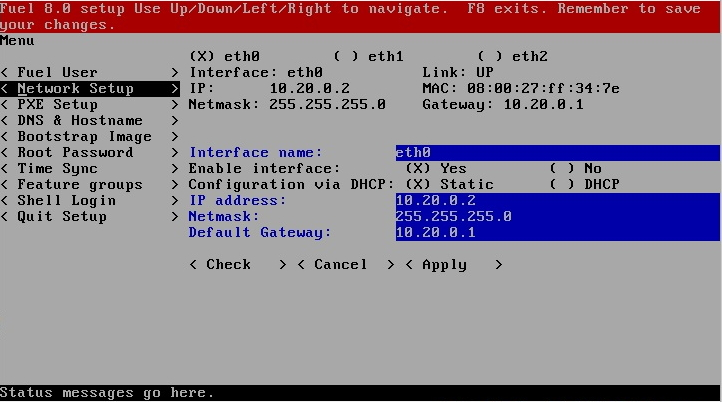
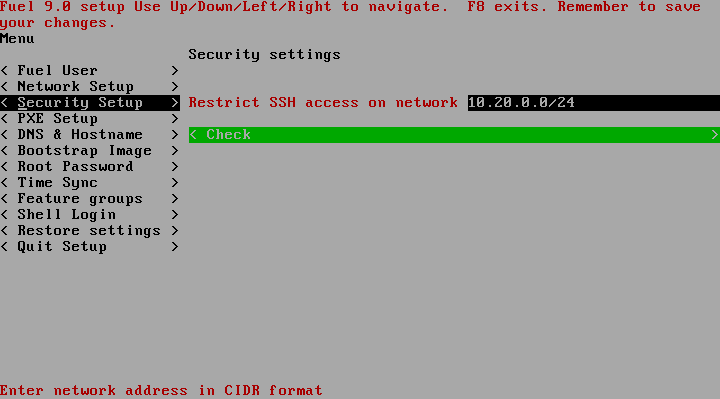
[install guide] Add Security settings to Fuel menu
This patch:

- adds a 'Security Setup' description to the Fuel Setup
  menu description;
- updates the Fuel setup menu from 8.0 to 9.0.

Closes-Bug: #1560360
(cherry picked from commit 68ce16e114ca11a544f2a8c8d4e3e74d2ce11282)

diff --git a/userdocs/fuel-install-guide/install/install_set_up_fuel.rst b/userdocs/fuel-install-guide/install/install_set_up_fuel.rst
@@ -58,13 +58,23 @@ settings and proceed to :ref:`install_install_fuel_master_node`.
    |                                      |                                  |
    |                                      | Modify these settings as needed. |
    +--------------------------------------+----------------------------------+
-   | 4. Configure DNS and hostname.       | Configure the DNS and hostname   |
+   | 4. Configure the security settings.  | By default, the network for SSH  |
+   |                                      | access to the Fuel Master node is|
+   |                                      | restricted by the Admin (PXE)    |
+   |                                      | network. You can change it, if   |
+   |                                      | needed, by entering a new network|
+   |                                      | address in the CIDR format. Once |
+   |                                      | applied, SSH access to the Fuel  |
+   |                                      | Master node will be allowed from |
+   |                                      | the provided network only.       |
+   +--------------------------------------+----------------------------------+
+   | 5. Configure DNS and hostname.       | Configure the DNS and hostname   |
    |                                      | settings, if needed. If your Fuel|
    |                                      | Master node is not connected to  |
    |                                      | the Internet, leave the External |
    |                                      | DNS field blank.                 |
    +--------------------------------------+----------------------------------+
-   | 5. Configure the bootstrap image that| Fuel ISO includes the CentOS     |
+   | 6. Configure the bootstrap image that| Fuel ISO includes the CentOS     |
    |    Fuel will use to discover the Fuel| bootstrap image that Fuel uses   |
    |    Slave nodes through PXE.          | to discover the Fuel Slave nodes.|
    |                                      | Although CentOS is the default   |
@@ -94,21 +104,21 @@ settings and proceed to :ref:`install_install_fuel_master_node`.
    |                                      | For more information, see:       |
    |                                      | :ref:`upgrade_local_repo`.       |
    +--------------------------------------+----------------------------------+
-   | 6. Configure the network time        | To avoid issues with the time    |
+   | 7. Configure the network time        | To avoid issues with the time    |
    |    protocol.                         | settings inconsistency on the    |
    |                                      | Fuel Master node and other       |
    |                                      | servers in your IT environment,  |
    |                                      | verify that the Fuel Master node |
    |                                      | uses correct NTP settings.       |
    +--------------------------------------+----------------------------------+
-   | 7. Change the root password.         | For security reasons, change the |
+   | 8. Change the root password.         | For security reasons, change the |
    |                                      | default root password. Fuel will |
    |                                      | apply this password to all new   |
    |                                      | OpenStack nodes. Existing        |
    |                                      | OpenStack nodes will continue to |
    |                                      | use the old password.            |
    +--------------------------------------+----------------------------------+
-   | 8. Configure network settings using  | You can configure all settings   |
+   | 9. Configure network settings using  | You can configure all settings   |
    |    shell.                            | available on the Fuel Setup      |
    |                                      | screen using shell.              |
    |                                      | Particularly, use shell to       |
